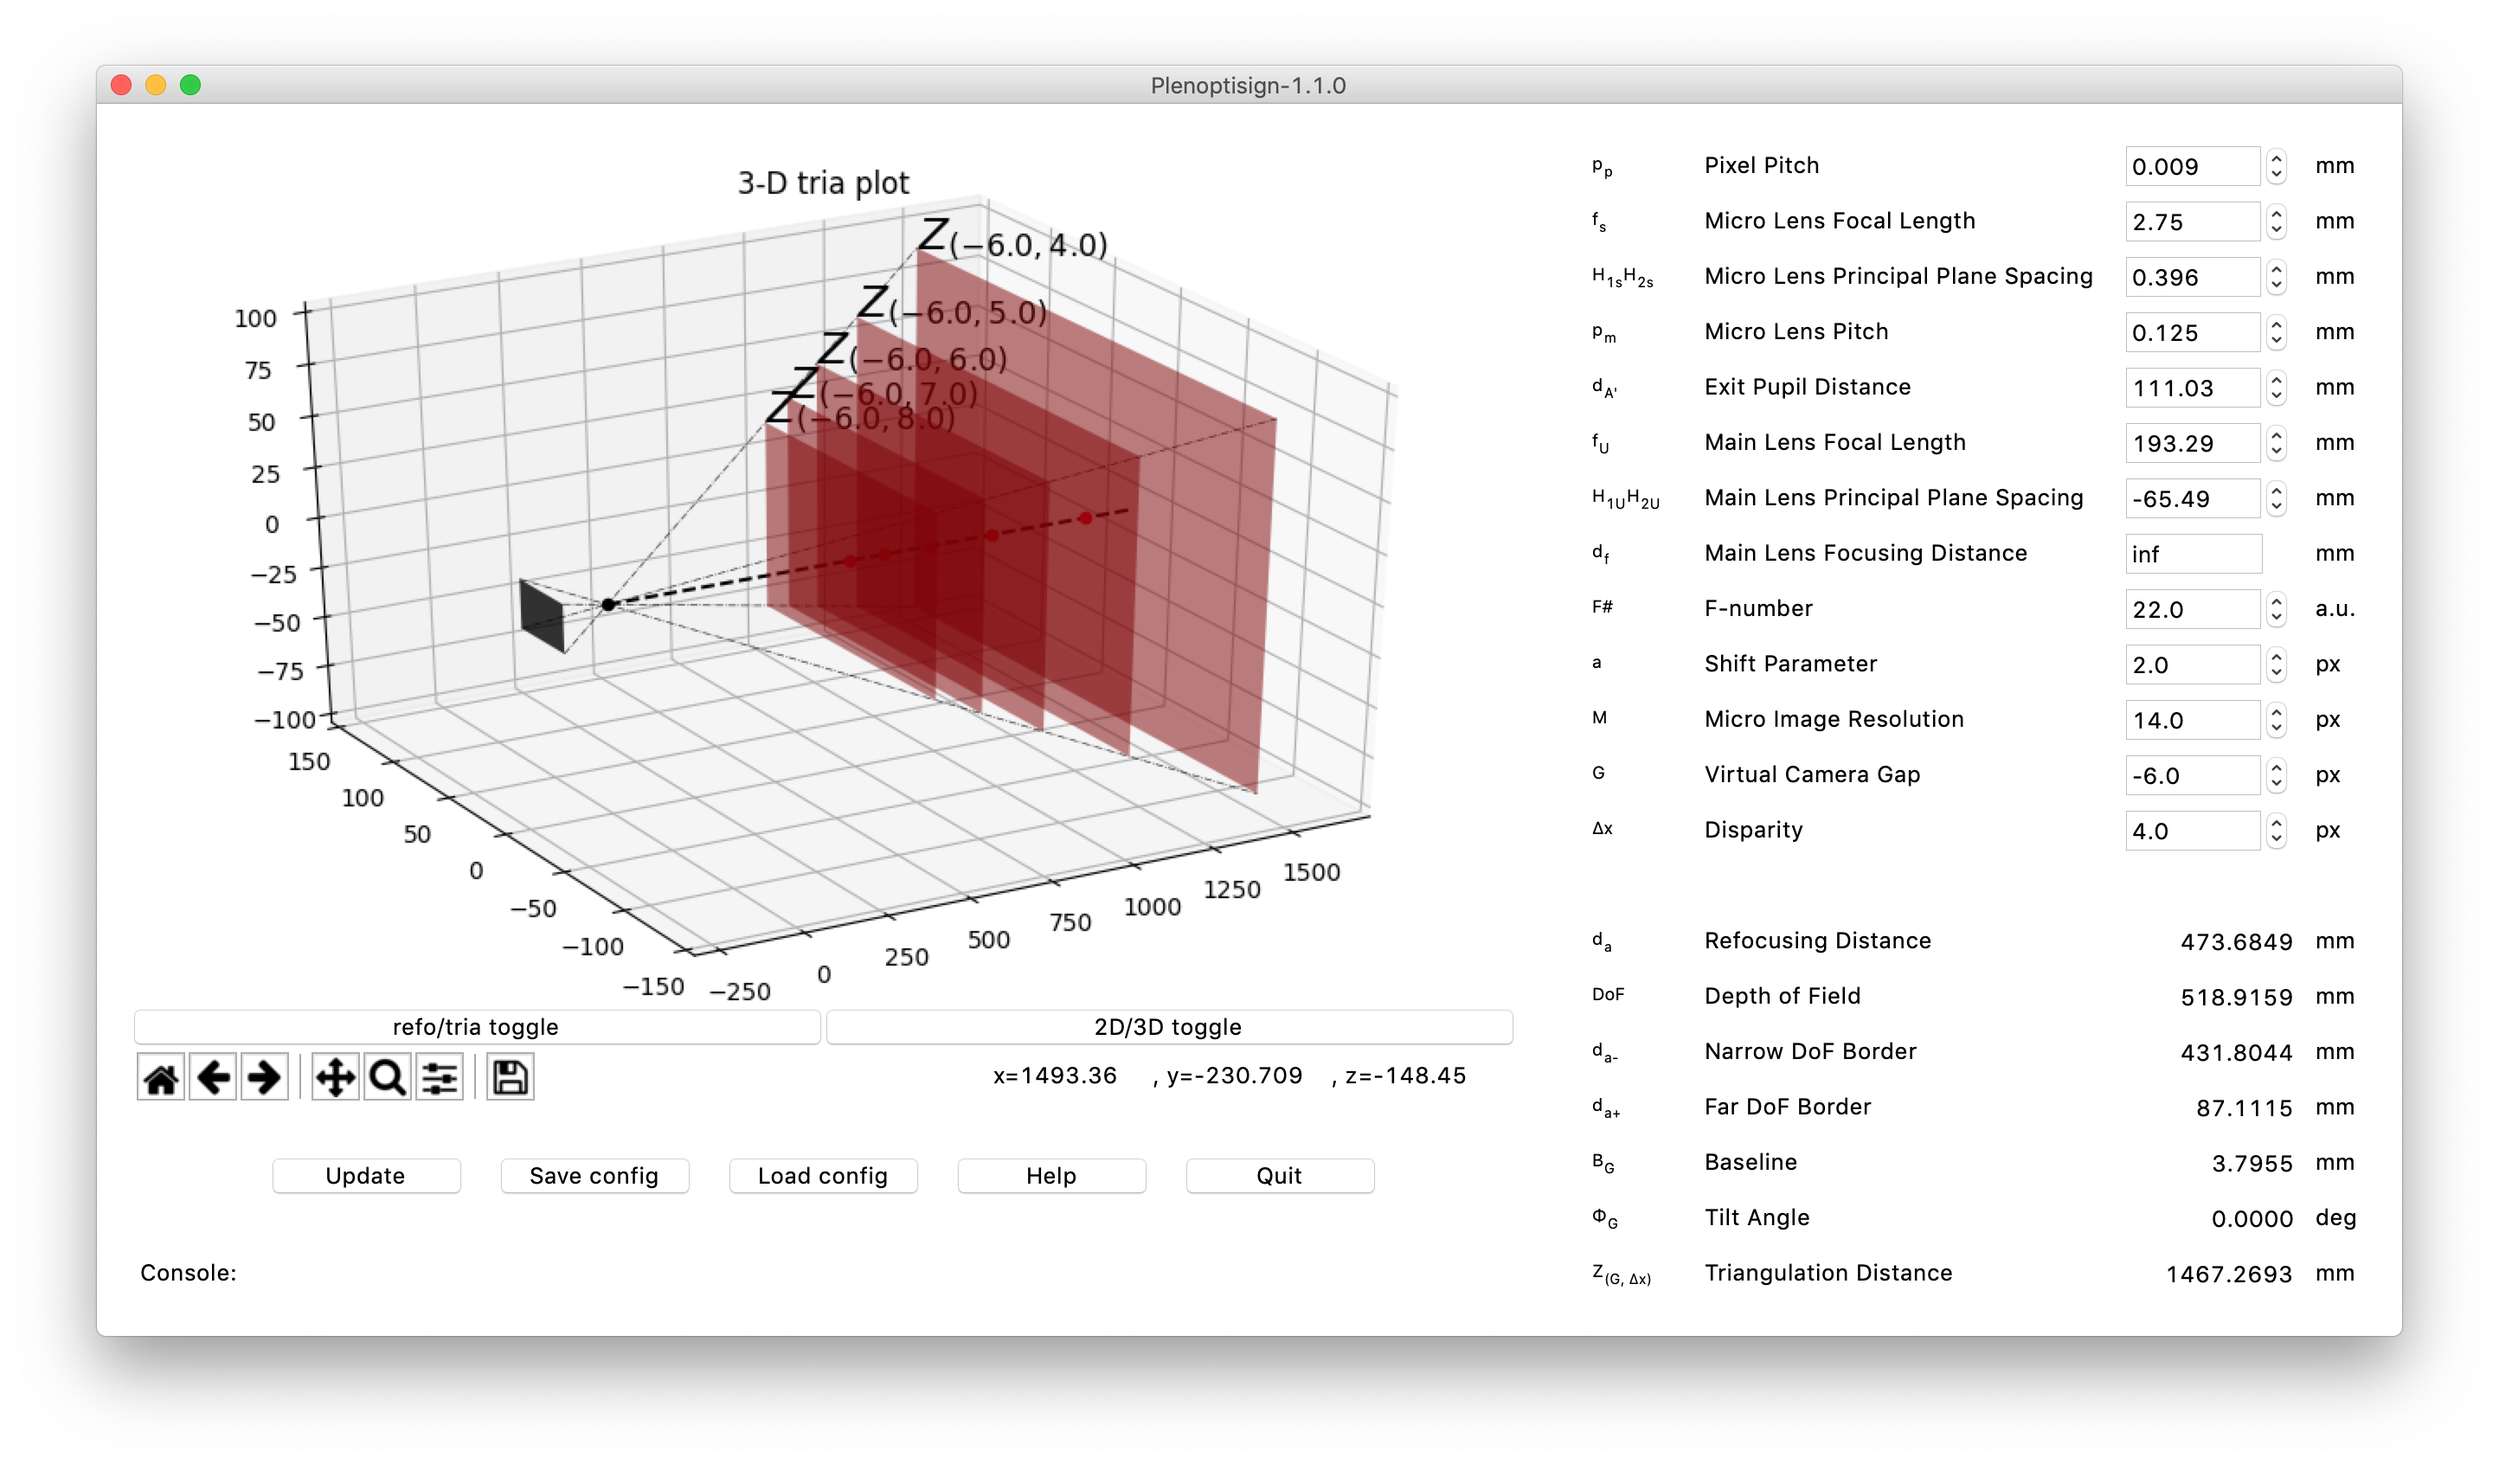
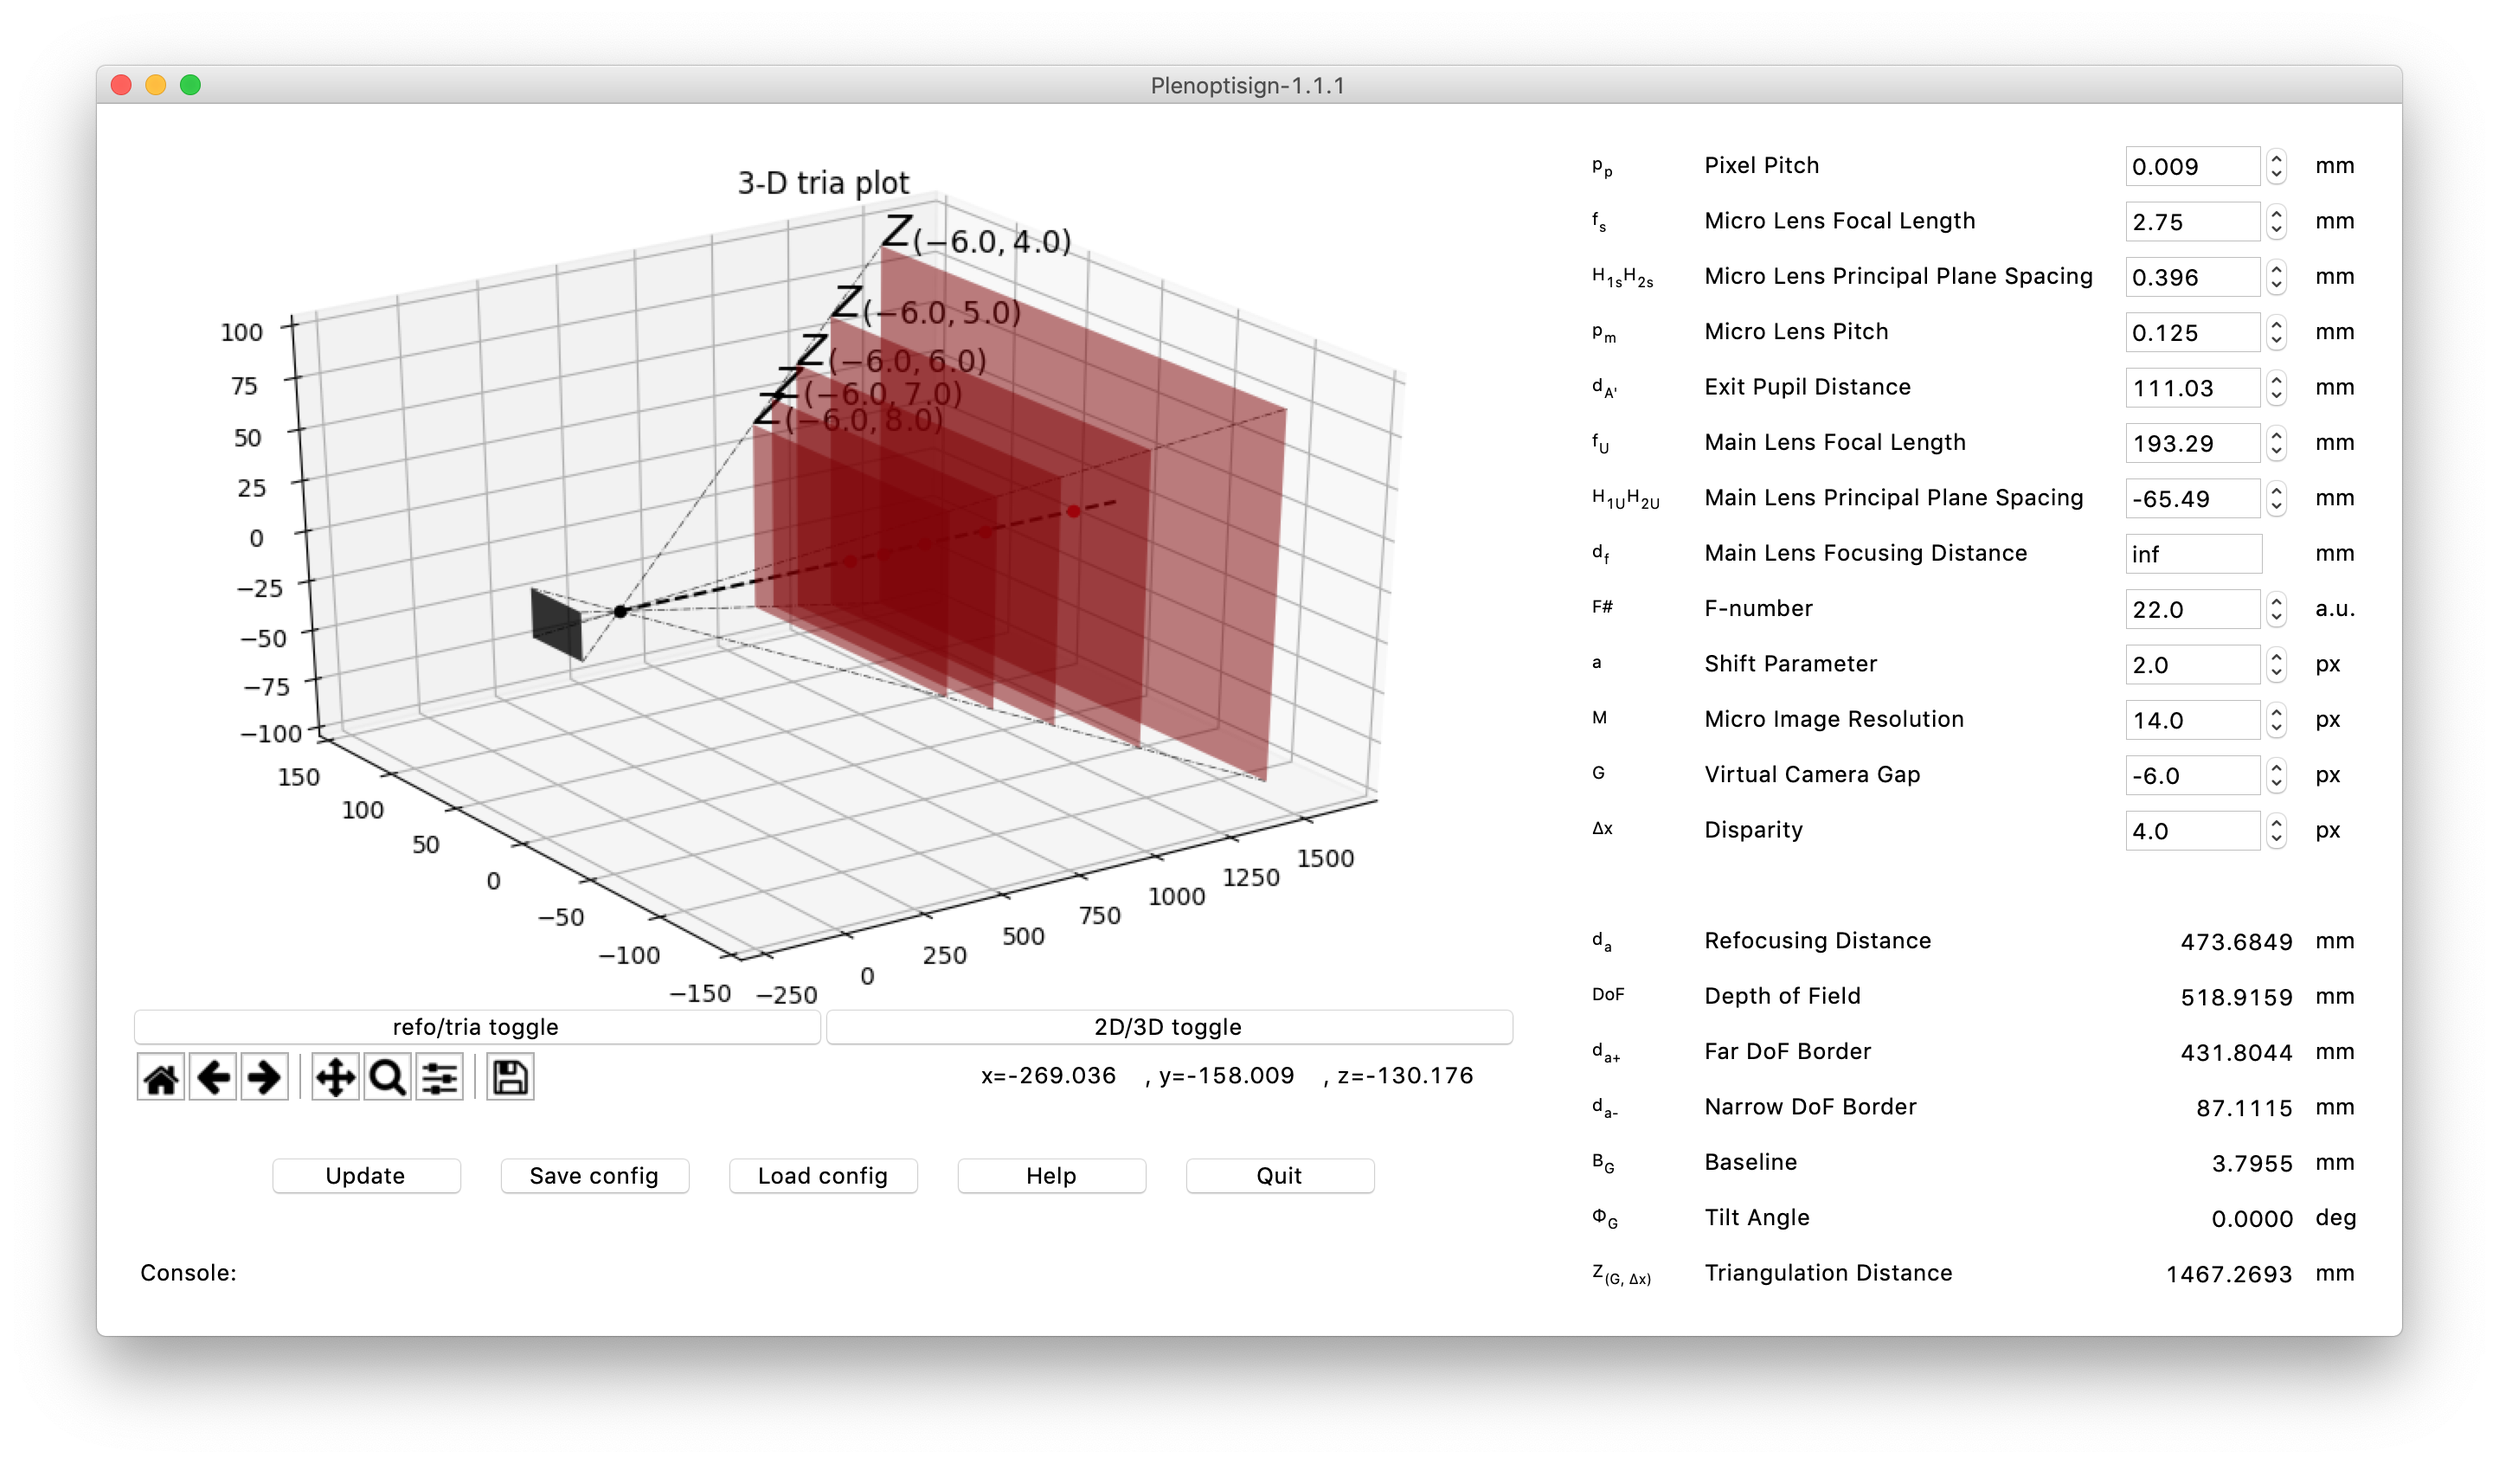
fix(dof): swap narrow and far DoF borders in UI

diff --git a/plenoptisign/constants.py b/plenoptisign/constants.py
@@ -10,10 +10,10 @@ EXPR = ['Pixel Pitch', 'Micro Lens Focal Length', 'Micro Lens Principal Plane Sp
         'Micro Lens Pitch', 'Exit Pupil Distance', 'Main Lens Focal Length',
         'Main Lens Principal Plane Spacing', 'Main Lens Focusing Distance', 'F-number',
         'Shift Parameter', 'Micro Image Resolution', 'Virtual Camera Gap', 'Disparity']
-RSLT = ['Refocusing Distance', 'Depth of Field', 'Narrow DoF Border', 'Far DoF Border',
+RSLT = ['Refocusing Distance', 'Depth of Field', 'Far DoF Border', 'Narrow DoF Border',
         'Baseline', 'Tilt Angle', 'Triangulation Distance']
 ESYM = ['p_p', 'f_s', 'H_{1s}H_{2s}', 'p_m', "d_{A'}", 'f_U', 'H_{1U}H_{2U}', 'd_f', 'F#', 'a', 'M', 'G', 'Δx']
-RSYM = ["d_a", "DoF", "d_{a-}", "d_{a+}", "B_G", "Φ_G", "Z_{(G, ∆x)}"]
+RSYM = ["d_a", "DoF", "d_{a+}", "d_{a-}", "B_G", "Φ_G", "Z_{(G, ∆x)}"]
 UNTS = ['mm', 'mm', 'mm', 'mm', 'mm', 'mm', 'mm', 'mm', 'a.u.', 'px', 'px', 'px', 'px',
         '', 'mm', 'mm', 'mm', 'mm', 'mm', 'deg', 'mm']
 
